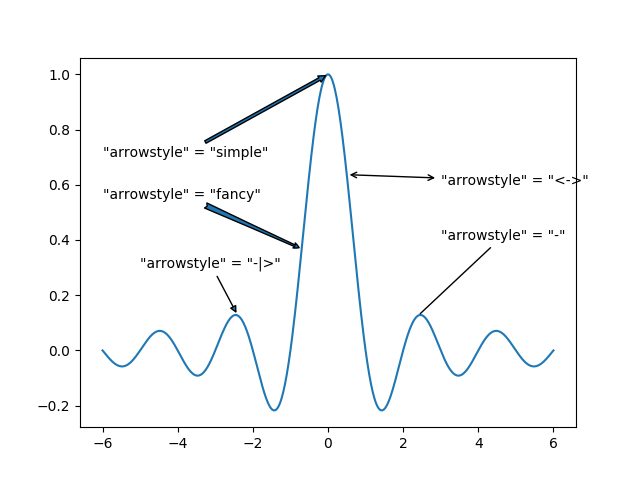
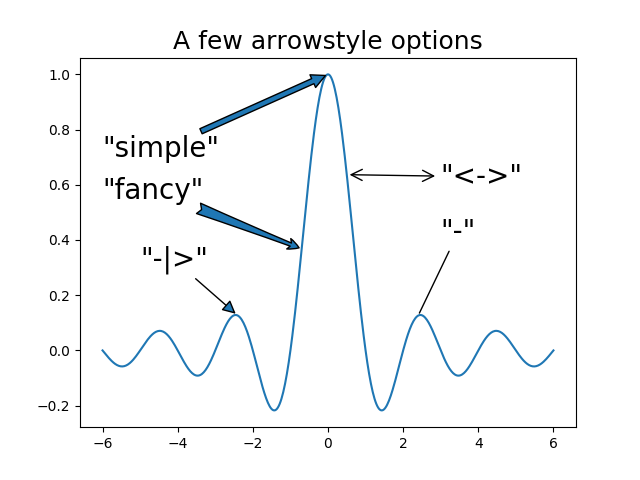
images updated

diff --git a/text_examples.py b/text_examples.py
@@ -13,71 +13,91 @@ y = np.sinc(x)
 fig = plt.figure()
 ax = fig.gca()
 ax.plot(x, y)
-ax.set_xlabel("The x-axis label")
-ax.set_ylabel("The y-axis label")
-ax.set_title("The Title")
+ax.set_xlabel("The x-axis label", fontsize=16)
+ax.set_ylabel("The y-axis label", fontsize=16)
+ax.set_title("The Title", fontsize=18)
 fig.savefig("images/text_xy_labels_title.png")
 
 # Add some text.
 fig = plt.figure()
 ax = fig.gca()
 ax.plot(x, y)
-ax.text(-5, .8, "Text on a plot", fontsize=16)
+ax.text(-5, .8, "Text on a plot", fontsize=22)
 fig.savefig("images/text_any_text.png")
 
 # Align the text.
 fig = plt.figure()
 ax = fig.gca()
 ax.set_xlim([-2, 2])
-ax.set_ylim([-2, 2])
-ax.scatter(-1, -1, marker=".", c="black")
-ax.text(-1, -1, "right-top",
-        horizontalalignment="right",
-        verticalalignment="top")
-ax.scatter(1, -1, marker=".", c="black")
-ax.text(1, -1, "left-top",
-        horizontalalignment="left",
-        verticalalignment="top")
-ax.scatter(-1, 1, marker=".", c="black")
-ax.text(-1, 1, "right-bottom",
-        horizontalalignment="right",
-        verticalalignment="bottom")
-ax.scatter(1, 1, marker=".", c="black")
-ax.text(1, 1, "left-bottom",
+ax.set_ylim([-1.4, 1.4])
+left_pos = -1.8
+right_pos = 1.8
+top_pos = 1
+bottom_pos = -1
+center_pos = 0
+baseline_pos = -.5
+fontsize = 14
+ax.scatter(left_pos, bottom_pos, marker=".", c="black")
+ax.text(left_pos, bottom_pos, "left-bottom",
+        fontsize=fontsize,
         horizontalalignment="left",
         verticalalignment="bottom")
-ax.scatter(0, -1, marker=".", c="black")
-ax.text(0, -1, "horizcenter-top",
-        horizontalalignment="center",
+ax.scatter(right_pos, bottom_pos, marker=".", c="black")
+ax.text(right_pos, bottom_pos, "right-bottom",
+        fontsize=fontsize,
+        horizontalalignment="right",
+        verticalalignment="bottom")
+ax.scatter(left_pos, top_pos, marker=".", c="black")
+ax.text(left_pos, top_pos, "left-top",
+        fontsize=fontsize,
+        horizontalalignment="left",
         verticalalignment="top")
-ax.scatter(0, 1, marker=".", c="black")
-ax.text(0, 1, "horizcenter-bottom",
+ax.scatter(right_pos, top_pos, marker=".", c="black")
+ax.text(right_pos, top_pos, "right-top",
+        fontsize=fontsize,
+        horizontalalignment="right",
+        verticalalignment="top")
+ax.scatter(center_pos, bottom_pos, marker=".", c="black")
+ax.text(center_pos, bottom_pos, "center-bottom",
+        fontsize=fontsize,
         horizontalalignment="center",
         verticalalignment="bottom")
-ax.scatter(1, 0, marker=".", c="black")
-ax.text(1, 0, "left-vertcenter",
-        horizontalalignment="left",
-        verticalalignment="center")
-ax.scatter(-1, 0, marker=".", c="black")
-ax.text(-1, 0, "right-vertcenter",
+ax.scatter(center_pos, top_pos, marker=".", c="black")
+ax.text(center_pos, top_pos, "center-top",
+        fontsize=fontsize,
+        horizontalalignment="center",
+        verticalalignment="top")
+ax.scatter(right_pos, center_pos, marker=".", c="black")
+ax.text(right_pos, center_pos, "right-center",
+        fontsize=fontsize,
         horizontalalignment="right",
         verticalalignment="center")
-ax.scatter(1, .5, marker=".", c="black")
-ax.text(1, .5, "left-baseline",
+ax.scatter(left_pos, center_pos, marker=".", c="black")
+ax.text(left_pos, center_pos, "left-center",
+        fontsize=fontsize,
         horizontalalignment="left",
-        verticalalignment="baseline")
-ax.scatter(-1, .5, marker=".", c="black")
-ax.text(-1, .5, "right-baseline",
+        verticalalignment="center")
+ax.scatter(right_pos, baseline_pos, marker=".", c="black")
+ax.text(right_pos, baseline_pos, "right-baseline",
+        fontsize=fontsize,
         horizontalalignment="right",
         verticalalignment="baseline")
-ax.scatter(0, .5, marker=".", c="black")
-ax.text(0, .5, "center-baseline",
+ax.scatter(left_pos, baseline_pos, marker=".", c="black")
+ax.text(left_pos, baseline_pos, "left-baseline",
+        fontsize=fontsize,
+        horizontalalignment="left",
+        verticalalignment="baseline")
+ax.scatter(center_pos, baseline_pos, marker=".", c="black")
+ax.text(center_pos, baseline_pos, "center-baseline",
+        fontsize=fontsize,
         horizontalalignment="center",
         verticalalignment="baseline")
-ax.scatter(0, 0, marker=".", c="black")
-ax.text(0, 0, "center-center",
+ax.scatter(center_pos, center_pos, marker=".", c="black")
+ax.text(center_pos, center_pos, "center-center",
+        fontsize=fontsize,
         horizontalalignment="center",
         verticalalignment="center")
+ax.set_title("Text alignment options", fontsize=18)
 fig.savefig("images/text_alignment.png")
 
 # Change the text formatting. 
@@ -85,88 +105,108 @@ fig = plt.figure()
 ax = fig.gca()
 ax.set_xlim([-2, 2])
 ax.set_ylim([-2, 2])
-ax.text(-1, 1, 'fontsize=16', fontsize=16,
+fontsize = 16
+ax.text(-1, 1, 'fontsize=20', fontsize=20,
         horizontalalignment="center")
 ax.text(-1, 0, 'fontstyle="italic"', fontstyle="italic",
+        fontsize=fontsize,
         horizontalalignment="center")
 ax.text(-1, -1, 'fontweight="bold"', fontweight="bold",
+        fontsize=fontsize,
         horizontalalignment="center")
 ax.text(1, -1, "rotation=15", rotation=15,
+        fontsize=fontsize,
         horizontalalignment="center")
 ax.text(1, 0, 'color="red"', color="red",
+        fontsize=fontsize,
         horizontalalignment="center")
 ax.text(1, 1, 'family="serif"', family="serif",
+        fontsize=fontsize,
         horizontalalignment="center")
+ax.set_title("A sampling of text styling options", fontsize=18)
 fig.savefig("images/text_styles.png")
 
 # Text box
 fig = plt.figure()
 ax = fig.gca()
 ax.plot(x, y)
-ax.text(2, .4, "Text in a box",
+ax.text(1, .7, "Text in a box",
+        fontsize=20,
         bbox=dict(boxstyle = "square",
                   facecolor = "white"))
+ax.set_title("A bounding box", fontsize=18)
 fig.savefig("images/text_bbox.png")
 
 # Annotation
 fig = plt.figure()
 ax = fig.gca()
 ax.plot(x, y)
+fontsize = 20
 ax.annotate(
-    '"arrowstyle" = "-"',
+    '"-"',
     (2.4, np.sinc(2.4)),
     (3, .4),
     arrowprops=dict(arrowstyle = "-"),
+    fontsize=fontsize,
 )
 ax.annotate(
-    '"arrowstyle" = "-|>"',
+    '"-|>"',
     (-2.4, np.sinc(2.4)),
     (-5, .3),
     arrowprops=dict(arrowstyle = "-|>"),
+    fontsize=fontsize,
 )
 ax.annotate(
-    '"arrowstyle" = "<->"',
+    '"<->"',
     (.5, np.sinc(.5)),
     (3, .6),
     arrowprops=dict(arrowstyle = "<->"),
+    fontsize=fontsize,
 )
 ax.annotate(
-    '"arrowstyle" = "simple"',
+    '"simple"',
     (0, 1),
     (-6, .7),
     arrowprops=dict(arrowstyle = "simple"),
+    fontsize=fontsize,
 )
 ax.annotate(
-    '"arrowstyle" = "fancy"',
+    '"fancy"',
     (-.7, np.sinc(.7)),
     (-6, .55),
     arrowprops=dict(arrowstyle = "fancy"),
+    fontsize=fontsize,
 )
+ax.set_title("A few arrowstyle options", fontsize=18)
 fig.savefig("images/text_annotate.png")
 
 # LaTeX equations. 
-matplotlib.rcParams['text.usetex'] = True
 fig = plt.figure()
 ax = fig.gca()
 ax.set_xlim([-1, 1])
 ax.set_ylim([-1, 1])
-# ax.text(0, 0, r"$y = \Sum{x^2 dx}_{i=0}^{n}$",
+matplotlib.rcParams['text.usetex'] = True
 ax.text(
     0, 0,
     r"$f(x | \mu, \sigma^2) = \frac{1}{\sqrt{2\pi\sigma^2}}" +
     r"e^{- \frac{(x - \mu)^2}{2\sigma^2}}$",
     horizontalalignment="center",
     fontsize=24)
+matplotlib.rcParams['text.usetex'] = False
+ax.set_title("So much math", fontsize=18)
 fig.savefig("images/text_equation.png")
 
 fig = plt.figure()
 ax = fig.gca()
 ax.set_xlim([-1, 1])
 ax.set_ylim([-1, 1])
+matplotlib.rcParams['text.usetex'] = True
 ax.text(
     0, 0, r"$E=mc^2$",
     horizontalalignment="center",
-    fontsize=24)
+    fontsize=32)
+matplotlib.rcParams['text.usetex'] = False
+ax.set_title("Some math", fontsize=18)
 fig.savefig("images/text_equation_thumbnail.png")
 matplotlib.rcParams['text.usetex'] = False
 
